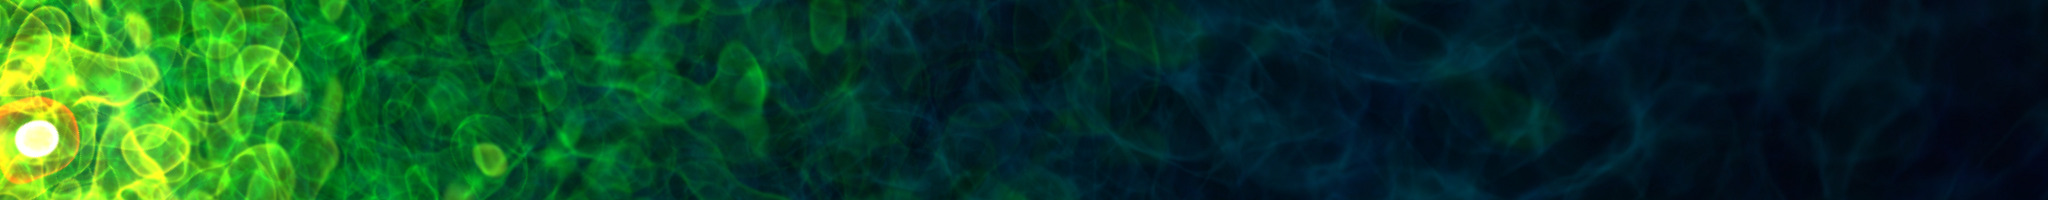
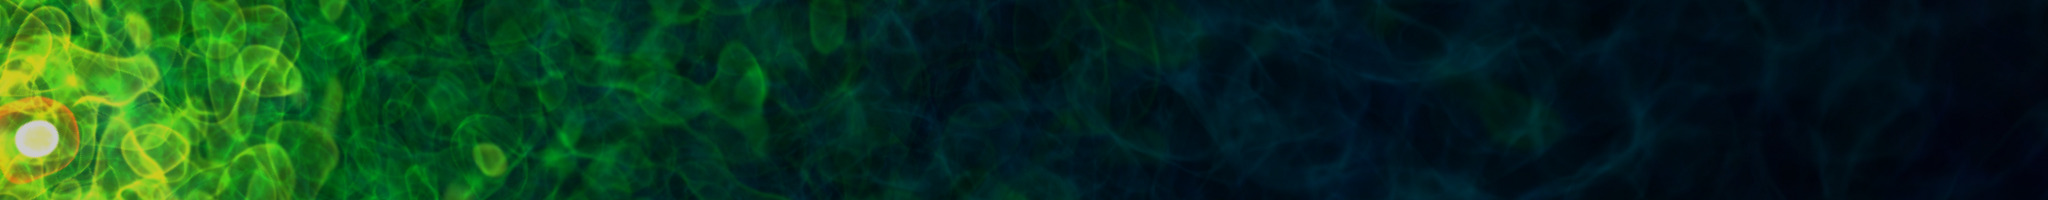
Darken title background image, and add font

diff --git a/_site/assets/css/style.css b/_site/assets/css/style.css
@@ -5,10 +5,15 @@
 ================================*/
 body {
 	background-color: #FAFAFA;
+	font-family: 'Noto Serif KR', serif;
 	}
 
 .list-container {
 	padding: 20px;
+	}
+
+.list-container .row {
+	margin-bottom: 20px;
 	}
 
 .list-container img {
@@ -149,9 +154,9 @@ body {
 
 /* small screen rigin */
 
-@media(max-width:700px) {
+@media(max-width:770px) {
 	.title h1 {
-		font-size: 30px;
+		font-size: 40px;
 		padding: 70px;
 		}
 
@@ -188,7 +193,7 @@ body {
 
 
 /* large screen (computer version)*/
-@media(min-width:700px) {
+@media(min-width:770px) {
 	.title h1 {
 		font-size: 50px;
 		padding: 65px;

diff --git a/assets/css/style.css b/assets/css/style.css
@@ -5,10 +5,15 @@
 ================================*/
 body {
 	background-color: #FAFAFA;
+	font-family: 'Noto Serif KR', serif;
 	}
 
 .list-container {
 	padding: 20px;
+	}
+
+.list-container .row {
+	margin-bottom: 20px;
 	}
 
 .list-container img {
@@ -149,9 +154,9 @@ body {
 
 /* small screen rigin */
 
-@media(max-width:700px) {
+@media(max-width:770px) {
 	.title h1 {
-		font-size: 30px;
+		font-size: 40px;
 		padding: 70px;
 		}
 
@@ -188,7 +193,7 @@ body {
 
 
 /* large screen (computer version)*/
-@media(min-width:700px) {
+@media(min-width:770px) {
 	.title h1 {
 		font-size: 50px;
 		padding: 65px;

diff --git a/_layouts/index.html b/_layouts/index.html
@@ -54,9 +54,9 @@ layout: base
 
 	<div class="row">
 		<div class="col-lg-12 text-center">
-			<h2>
+			<H2>
 				NEWS
-			</h2>
+			</H2>
 		</div>
 	</div>
 

diff --git a/_site/index.html b/_site/index.html
@@ -150,9 +150,9 @@
 
 	<div class="row">
 		<div class="col-lg-12 text-center">
-			<h2>
+			<H2>
 				NEWS
-			</h2>
+			</H2>
 		</div>
 	</div>
 
